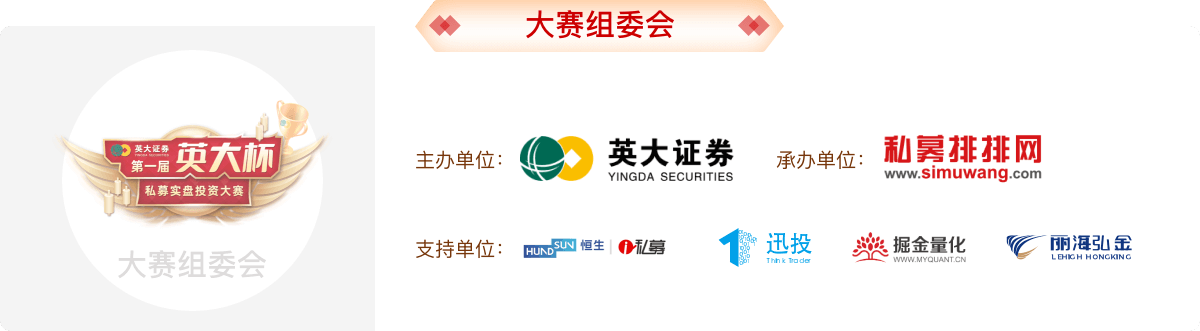
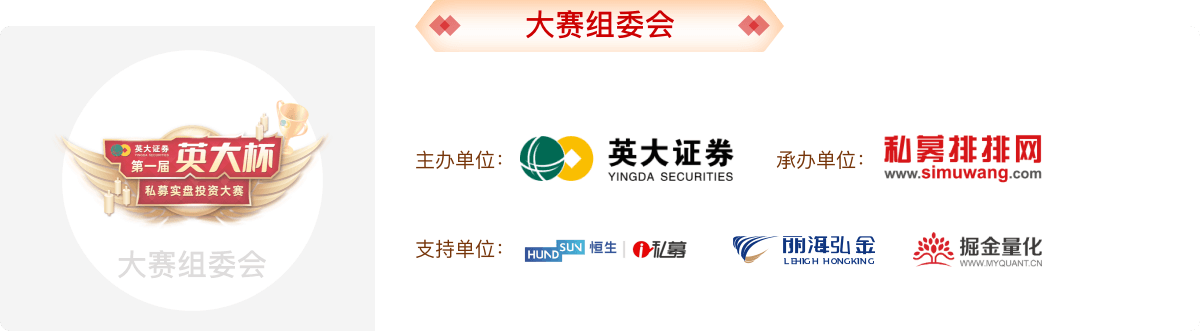
fix()：英大证券修改

Changed region(s): [[0.4317, 0.6949, 0.9558, 0.8157]]

diff --git a/pages/index/introduction.vue b/pages/index/introduction.vue
@@ -16,6 +16,28 @@
           <a class="name-link name-ppw" href="https://www.simuwang.com/" target="_blank"></a>
         </div>
       </common-flex>
+      <common-flex direction="column" class="route-link ydzq" v-if="i.title.includes('大赛组织') && match_code === 'ydzq'">
+        <div class="item">
+          <a class="ydzq-logo" href="http://www.ydzq.sgcc.com.cn/ydzq/index.html" target="_blank"></a>
+          <a class="ydzq-name" href="http://www.ydzq.sgcc.com.cn/ydzq/index.html" target="_blank"></a>
+        </div>
+        <div class="item">
+          <a class="ydzq-ppw-logo" href="https://www.simuwang.com" target="_blank"></a>
+          <a class="ydzq-ppw-name" href="https://www.simuwang.com" target="_blank"></a>
+        </div>
+        <div class="item">
+          <a class="ydzq-hs-logo" href="https://www.hundsun.com/" target="_blank"></a>
+          <a class="ydzq-hs-name" href="https://www.hundsun.com/" target="_blank"></a>
+        </div>
+        <div class="item">
+          <a class="ydzq-lhhj-logo" href="https://www.hongkingsystem.cn/" target="_blank"></a>
+          <a class="ydzq-lhhj-name" href="https://www.hongkingsystem.cn/" target="_blank"></a>
+        </div>
+        <div class="item">
+          <a class="ydzq-jjlh-logo" href="https://www.myquant.cn/" target="_blank"></a>
+          <a class="ydzq-jjlh-name" href="https://www.myquant.cn/" target="_blank"></a>
+        </div>
+      </common-flex>
     </div>
   </common-flex>
 </template>
@@ -82,6 +104,83 @@ export default {
         }
         .name-ppw {
           top: -3px;
+        }
+      }
+    }
+    .ydzq {
+      height: 1910px;
+      .item {
+        flex-grow: 1;
+        position: relative;
+        .ydzq-logo {
+          position: absolute;
+          left: 117px;
+          top: 242px;
+          width: 203px;
+          height: 84px;
+        }
+        .ydzq-name {
+          position: absolute;
+          left: 395px;
+          top: 145px;
+          width: 203px;
+          height: 42px;
+        }
+        .ydzq-ppw-logo {
+          position: absolute;
+          left: 117px;
+          top: 284px;
+          width: 203px;
+          height: 84px;
+        }
+        .ydzq-ppw-name {
+          position: absolute;
+          left: 403px;
+          top: 140px;
+          width: 203px;
+          height: 42px;
+        }
+        .ydzq-hs-logo {
+          position: absolute;
+          left: 105px;
+          top: 360px;
+          width: 228px;
+          height: 84px;
+        }
+        .ydzq-hs-name {
+          position: absolute;
+          left: 395px;
+          top: 225px;
+          width: 203px;
+          height: 42px;
+        }
+        .ydzq-lhhj-logo {
+          position: absolute;
+          left: 105px;
+          top: 328px;
+          width: 228px;
+          height: 84px;
+        }
+        .ydzq-lhhj-name {
+          position: absolute;
+          left: 395px;
+          top: 264px;
+          width: 203px;
+          height: 42px;
+        }
+        .ydzq-jjlh-logo {
+          position: absolute;
+          left: 105px;
+          bottom: 76px;
+          width: 228px;
+          height: 84px;
+        }
+        .ydzq-jjlh-name {
+          position: absolute;
+          left: 395px;
+          top: 153px;
+          width: 303px;
+          height: 42px;
         }
       }
     }

diff --git a/pages/mobile/introduction.vue b/pages/mobile/introduction.vue
@@ -24,6 +24,23 @@
           <a class="img-link img-ppw" href="https://mobile.simuwang.com/" target="_blank"></a>
         </div>
       </common-flex>
+      <common-flex direction="column" class="route-link ydzq" v-if="j === 3 && match_code === 'ydzq'">
+        <div class="item">
+          <a class="ydzq-link" href="http://www.ydzq.sgcc.com.cn/ydzq/index.html" target="_blank"></a>
+        </div>
+        <div class="item">
+          <a class="ppw-link" href="https://www.simuwang.com" target="_blank"></a>
+        </div>
+        <div class="item">
+          <a class="hs-link" href="https://www.hundsun.com/" target="_blank"></a>
+        </div>
+        <div class="item">
+          <a class="lhhj-link" href="https://www.hongkingsystem.cn/" target="_blank"></a>
+        </div>
+        <div class="item">
+          <a class="jjlh-link" href="https://www.myquant.cn/" target="_blank"></a>
+        </div>
+      </common-flex>
     </div>
   </div>
 </template>
@@ -102,6 +119,33 @@ export default {
         .img-ppw {
           top: .09rem;
         }
+      }
+    }
+    .ydzq {
+      height: 35rem;
+      a {
+        position: absolute;
+        left: 50%;
+        transform: translateX(-50%);
+        width: 2.6rem;
+        height: 1.8rem;
+      }
+      .ydzq-link {
+        top: 1.7rem;
+      }
+      .ppw-link {
+        top: 1.6rem;
+      }
+      .hs-link {
+        width: 3rem;
+        top: 2.8rem;
+      }
+      .lhhj-link {
+        top: 3.7rem;
+      }
+      .jjlh-link {
+        width: 4rem;
+        top: 2.4rem;
       }
     }
   }

diff --git a/pages/index/assign.vue b/pages/index/assign.vue
@@ -309,7 +309,7 @@ $borderColor: #DDDDDD;
           width: 235px;
           text-align: center;
         }
-        .fund_name {
+        .fund_name, .fund_short_name {
           text-indent: 36px;
           width: 400px;
           text-align: left;
@@ -356,7 +356,7 @@ $borderColor: #DDDDDD;
           text-align: center;
           border-right: 1px solid $borderColor;
         }
-        .fund_name {
+        .fund_name, .fund_short_name {
           width: 400px;
           text-align: left;
           text-indent: 36px;
